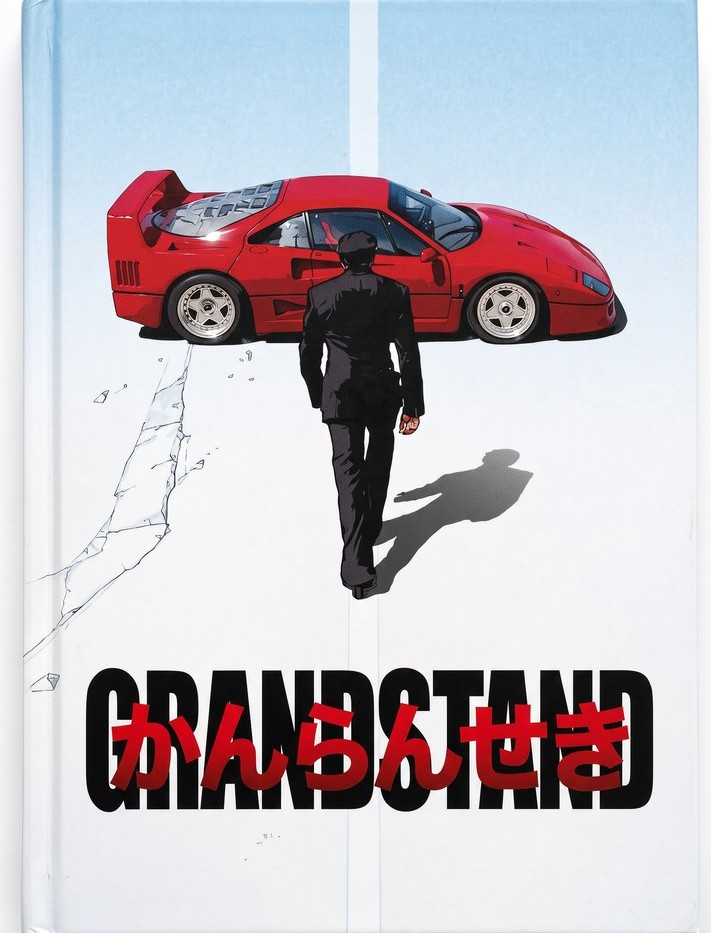
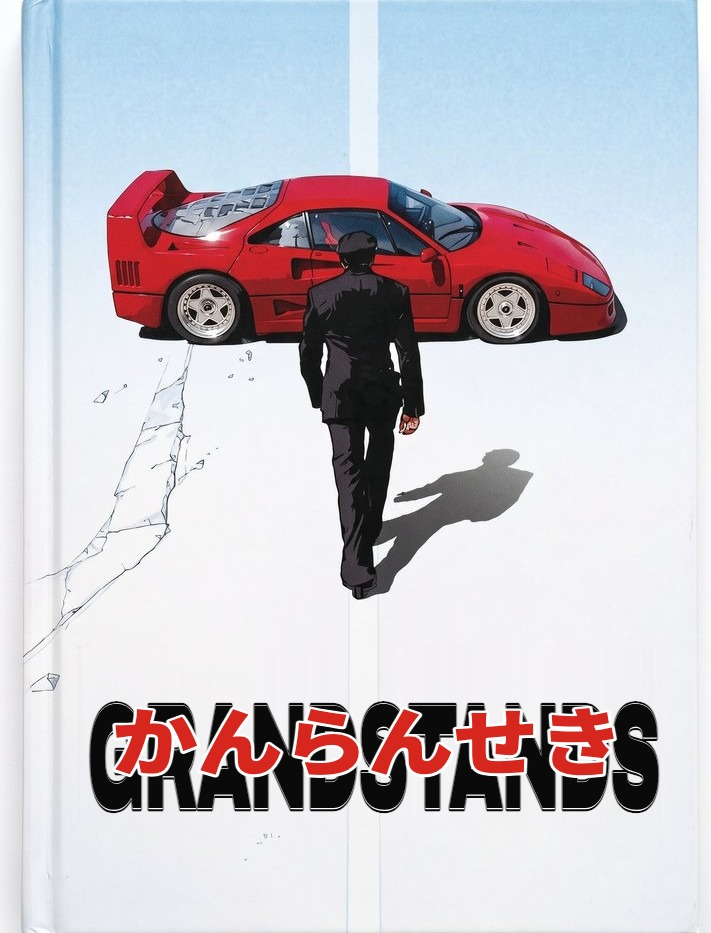
Rename Grandstand to Grandstands: shelf cover and spine art, covers, homepage and case study

Changed region(s): [[0.1238, 0.7149, 0.9283, 0.8703]]

diff --git a/dist/work/grandstand/index.html b/dist/work/grandstand/index.html
@@ -3,16 +3,16 @@
 <head>
   <meta charset="utf-8">
   <meta name="viewport" content="width=device-width, initial-scale=1">
-  <meta name="description" content="Case study: Grandstand, real Formula 1 races replayed as 3D dioramas in the browser. React Three Fiber, Blender and OpenStreetMap.">
+  <meta name="description" content="Case study: Grandstands, real Formula 1 races replayed as 3D dioramas in the browser. React Three Fiber, Blender and OpenStreetMap.">
   <meta name="color-scheme" content="light">
-  <meta property="og:title" content="Grandstand — Andrew Kim">
+  <meta property="og:title" content="Grandstands — Andrew Kim">
   <meta property="og:description" content="Real F1 races, replayed on a tiny 3D world you can walk around.">
   <meta property="og:type" content="article">
   <link rel="icon" href="/favicon.svg" type="image/svg+xml">
   <link rel="icon" href="/favicon.ico" sizes="16x16 32x32 48x48">
   <link rel="apple-touch-icon" href="/apple-touch-icon.png">
   <link rel="manifest" href="/manifest.json">
-  <title>Grandstand — Andrew Kim</title>
+  <title>Grandstands — Andrew Kim</title>
   <link rel="preconnect" href="https://fonts.googleapis.com">
   <link rel="preconnect" href="https://fonts.gstatic.com" crossorigin>
   <link rel="stylesheet" href="https://fonts.googleapis.com/css2?family=Archivo:wdth,wght@62..125,400..800&family=IBM+Plex+Mono:wght@400;500&family=Source+Serif+4:opsz,wght@8..60,400..600&display=swap">
@@ -291,7 +291,7 @@ figcaption{
 <section class="titleblock">
   <div class="shell">
     <div class="label">Case study &nbsp;/&nbsp; Personal project</div>
-    <h1>Grandstand</h1>
+    <h1>Grandstands</h1>
     <p class="lede">Real Formula 1 races replayed on a tiny 3D world you can walk around. Every lap, pit stop and position change from the actual race plays out on a hand-built diorama of the circuit, in the browser, with no download. <em>Built by a fan, for fans: designed, modelled and coded end to end.</em></p>
     <dl class="specs has-visit">
       <div><dt class="label">Role</dt><dd>Design, 3D &amp; engineering</dd></div>
@@ -300,7 +300,7 @@ figcaption{
       <div><dt class="label">Status</dt><dd><span class="live-tag"><i aria-hidden="true"></i>Live</span></dd></div><div><dt class="label">Visit</dt><dd><a class="compass" href="https://www.thegrandstands.net/" target="_blank" rel="noopener noreferrer" aria-label="Visit the live site (opens in a new tab)"><span class="go">Visit site</span><svg class="mark" viewBox="-124 -124 248 248" aria-hidden="true"><defs><clipPath id="tip-visit"><rect x="56" y="-40" width="80" height="80"/></clipPath></defs><g class="needle"><path d="M0 -70Q9 -9 116 0Q9 9 0 70Q-9 9 -70 0Q-9 -9 0 -70Z" fill="currentColor"/><path d="M0 -70Q9 -9 116 0Q9 9 0 70Q-9 9 -70 0Q-9 -9 0 -70Z" fill="#E9A23B" clip-path="url(#tip-visit)"/></g></svg></a></dd></div>
     </dl>
     <figure class="hero-shot">
-      <img src="landing.jpg" alt="Grandstand home page: the headline Take your seat in the grandstand over a 3D diorama of Monza, a red results ticker along the top and a results card." width="1600" height="1000">
+      <img src="landing.jpg" alt="Grandstands home page: the headline Take your seat in the grandstand over a 3D diorama of Monza, a red results ticker along the top and a results card." width="1600" height="1000">
       <figcaption><span>Fig. 01 — Home</span><span>thegrandstands.net</span></figcaption>
     </figure>
   </div>

diff --git a/public/work/grandstand/index.html b/public/work/grandstand/index.html
@@ -3,16 +3,16 @@
 <head>
   <meta charset="utf-8">
   <meta name="viewport" content="width=device-width, initial-scale=1">
-  <meta name="description" content="Case study: Grandstand, real Formula 1 races replayed as 3D dioramas in the browser. React Three Fiber, Blender and OpenStreetMap.">
+  <meta name="description" content="Case study: Grandstands, real Formula 1 races replayed as 3D dioramas in the browser. React Three Fiber, Blender and OpenStreetMap.">
   <meta name="color-scheme" content="light">
-  <meta property="og:title" content="Grandstand — Andrew Kim">
+  <meta property="og:title" content="Grandstands — Andrew Kim">
   <meta property="og:description" content="Real F1 races, replayed on a tiny 3D world you can walk around.">
   <meta property="og:type" content="article">
   <link rel="icon" href="/favicon.svg" type="image/svg+xml">
   <link rel="icon" href="/favicon.ico" sizes="16x16 32x32 48x48">
   <link rel="apple-touch-icon" href="/apple-touch-icon.png">
   <link rel="manifest" href="/manifest.json">
-  <title>Grandstand — Andrew Kim</title>
+  <title>Grandstands — Andrew Kim</title>
   <link rel="preconnect" href="https://fonts.googleapis.com">
   <link rel="preconnect" href="https://fonts.gstatic.com" crossorigin>
   <link rel="stylesheet" href="https://fonts.googleapis.com/css2?family=Archivo:wdth,wght@62..125,400..800&family=IBM+Plex+Mono:wght@400;500&family=Source+Serif+4:opsz,wght@8..60,400..600&display=swap">
@@ -291,7 +291,7 @@ figcaption{
 <section class="titleblock">
   <div class="shell">
     <div class="label">Case study &nbsp;/&nbsp; Personal project</div>
-    <h1>Grandstand</h1>
+    <h1>Grandstands</h1>
     <p class="lede">Real Formula 1 races replayed on a tiny 3D world you can walk around. Every lap, pit stop and position change from the actual race plays out on a hand-built diorama of the circuit, in the browser, with no download. <em>Built by a fan, for fans: designed, modelled and coded end to end.</em></p>
     <dl class="specs has-visit">
       <div><dt class="label">Role</dt><dd>Design, 3D &amp; engineering</dd></div>
@@ -300,7 +300,7 @@ figcaption{
       <div><dt class="label">Status</dt><dd><span class="live-tag"><i aria-hidden="true"></i>Live</span></dd></div><div><dt class="label">Visit</dt><dd><a class="compass" href="https://www.thegrandstands.net/" target="_blank" rel="noopener noreferrer" aria-label="Visit the live site (opens in a new tab)"><span class="go">Visit site</span><svg class="mark" viewBox="-124 -124 248 248" aria-hidden="true"><defs><clipPath id="tip-visit"><rect x="56" y="-40" width="80" height="80"/></clipPath></defs><g class="needle"><path d="M0 -70Q9 -9 116 0Q9 9 0 70Q-9 9 -70 0Q-9 -9 0 -70Z" fill="currentColor"/><path d="M0 -70Q9 -9 116 0Q9 9 0 70Q-9 9 -70 0Q-9 -9 0 -70Z" fill="#E9A23B" clip-path="url(#tip-visit)"/></g></svg></a></dd></div>
     </dl>
     <figure class="hero-shot">
-      <img src="landing.jpg" alt="Grandstand home page: the headline Take your seat in the grandstand over a 3D diorama of Monza, a red results ticker along the top and a results card." width="1600" height="1000">
+      <img src="landing.jpg" alt="Grandstands home page: the headline Take your seat in the grandstand over a 3D diorama of Monza, a red results ticker along the top and a results card." width="1600" height="1000">
       <figcaption><span>Fig. 01 — Home</span><span>thegrandstands.net</span></figcaption>
     </figure>
   </div>

diff --git a/dist/covers.js b/dist/covers.js
@@ -114,11 +114,11 @@
         return '<div class="cvx cvx-f451">' + carInFlames() +
           '<div class="fx-cap">Wonderful races<br>by the author of<br>allenscabinets.com</div>' +
           '<div class="fx-author"><span class="first">Andrew</span><span class="last">Kim</span></div>' +
-          '<div class="fx-title"><span class="t">Grandstand</span> <span class="n">451</span></div>' +
+          '<div class="fx-title"><span class="t">Grandstands</span> <span class="n">451</span></div>' +
           '<div class="fx-pub">ADK Studio Books</div></div>';
       },
       spine: function () {
-        return '<span class="fx-spine-n">451</span><span class="t">Grandstand</span><span class="fx-spine-pub">ADK</span>';
+        return '<span class="fx-spine-n">451</span><span class="t">Grandstands</span><span class="fx-spine-pub">ADK</span>';
       }
     },
     white: {
@@ -147,10 +147,10 @@
     },
     supreme: {
       cover: function () {
-        return '<div class="cvx cvx-supreme"><div class="sp-box"><span>Grandstand</span></div><div class="sp-emboss">ADK STUDIO</div></div>';
+        return '<div class="cvx cvx-supreme"><div class="sp-box"><span>Grandstands</span></div><div class="sp-emboss">ADK STUDIO</div></div>';
       },
       spine: function () {
-        return '<span class="sp-spine-box"><span class="t">Grandstand</span></span><span class="sp-spine-pub">ADK</span>';
+        return '<span class="sp-spine-box"><span class="t">Grandstands</span></span><span class="sp-spine-pub">ADK</span>';
       }
     },
     apc: {

diff --git a/public/covers.js b/public/covers.js
@@ -114,11 +114,11 @@
         return '<div class="cvx cvx-f451">' + carInFlames() +
           '<div class="fx-cap">Wonderful races<br>by the author of<br>allenscabinets.com</div>' +
           '<div class="fx-author"><span class="first">Andrew</span><span class="last">Kim</span></div>' +
-          '<div class="fx-title"><span class="t">Grandstand</span> <span class="n">451</span></div>' +
+          '<div class="fx-title"><span class="t">Grandstands</span> <span class="n">451</span></div>' +
           '<div class="fx-pub">ADK Studio Books</div></div>';
       },
       spine: function () {
-        return '<span class="fx-spine-n">451</span><span class="t">Grandstand</span><span class="fx-spine-pub">ADK</span>';
+        return '<span class="fx-spine-n">451</span><span class="t">Grandstands</span><span class="fx-spine-pub">ADK</span>';
       }
     },
     white: {
@@ -147,10 +147,10 @@
     },
     supreme: {
       cover: function () {
-        return '<div class="cvx cvx-supreme"><div class="sp-box"><span>Grandstand</span></div><div class="sp-emboss">ADK STUDIO</div></div>';
+        return '<div class="cvx cvx-supreme"><div class="sp-box"><span>Grandstands</span></div><div class="sp-emboss">ADK STUDIO</div></div>';
       },
       spine: function () {
-        return '<span class="sp-spine-box"><span class="t">Grandstand</span></span><span class="sp-spine-pub">ADK</span>';
+        return '<span class="sp-spine-box"><span class="t">Grandstands</span></span><span class="sp-spine-pub">ADK</span>';
       }
     },
     apc: {

diff --git a/dist/library.js b/dist/library.js
@@ -25,7 +25,7 @@
       size: { h: 350, d: 41 }, spine: { image: '/books/allensadmin-spine.jpg', bg: '#121212', fg: '#FFFFFF', ac: '#E9A23B', pat: 'stripes' }, cover: { image: '/books/allensadmin-cover.jpg', bg: '#121212', fg: '#E9A23B' }
     },
     {
-      id: 'grandstand', design: 'supreme', title: 'Grandstand', spineTitle: 'Grandstand', coverTitle: 'Grand<br>stand',
+      id: 'grandstand', design: 'supreme', title: 'Grandstands', spineTitle: 'Grandstands', coverTitle: 'Grand<br>stands',
       kicker: 'Personal · Live', tag: '3D web',
       desc: 'Real Formula 1 races replayed on a tiny 3D world you can walk around: every lap, pit stop and overtake from the actual race, on hand-built dioramas of each circuit, in the browser.',
       meta: [['Role', 'Design, 3D & engineering'], ['Stack', 'Three.js, React Three Fiber, Blender, OpenStreetMap'], ['Status', 'Live']],

diff --git a/public/library.js b/public/library.js
@@ -25,7 +25,7 @@
       size: { h: 350, d: 41 }, spine: { image: '/books/allensadmin-spine.jpg', bg: '#121212', fg: '#FFFFFF', ac: '#E9A23B', pat: 'stripes' }, cover: { image: '/books/allensadmin-cover.jpg', bg: '#121212', fg: '#E9A23B' }
     },
     {
-      id: 'grandstand', design: 'supreme', title: 'Grandstand', spineTitle: 'Grandstand', coverTitle: 'Grand<br>stand',
+      id: 'grandstand', design: 'supreme', title: 'Grandstands', spineTitle: 'Grandstands', coverTitle: 'Grand<br>stands',
       kicker: 'Personal · Live', tag: '3D web',
       desc: 'Real Formula 1 races replayed on a tiny 3D world you can walk around: every lap, pit stop and overtake from the actual race, on hand-built dioramas of each circuit, in the browser.',
       meta: [['Role', 'Design, 3D & engineering'], ['Stack', 'Three.js, React Three Fiber, Blender, OpenStreetMap'], ['Status', 'Live']],

diff --git a/dist/index.html b/dist/index.html
@@ -112,7 +112,7 @@
   var SCREENS = [
     { book:'allenscabinets', kind:'browser', src:'/work/allenskb/home.jpg', cap:'allenscabinets.com' },
     { book:'beoncarrier', kind:'mockup', src:'/work/beon-carrier/mobile-bids.jpg', cap:'Beon Carrier · app' },
-    { book:'grandstand', kind:'browser', src:'/work/grandstand/scene-monza.jpg', cap:'Grandstand' },
+    { book:'grandstand', kind:'browser', src:'/work/grandstand/scene-monza.jpg', cap:'Grandstands' },
     { book:'allensadmin', kind:'browser', src:'/work/allens-admin/crm-pipeline.jpg', cap:'Custom CRM' },
     { book:'allenscabinets', kind:'phone', src:'/work/allenskb/mobile.jpg', cap:'allenscabinets.com · mobile' },
     { book:'beoncarrier', kind:'browser', src:'/work/beon-carrier/web-bids.jpg', cap:'Beon Carrier' },

diff --git a/index.html b/index.html
@@ -113,7 +113,7 @@
   var SCREENS = [
     { book:'allenscabinets', kind:'browser', src:'/work/allenskb/home.jpg', cap:'allenscabinets.com' },
     { book:'beoncarrier', kind:'mockup', src:'/work/beon-carrier/mobile-bids.jpg', cap:'Beon Carrier · app' },
-    { book:'grandstand', kind:'browser', src:'/work/grandstand/scene-monza.jpg', cap:'Grandstand' },
+    { book:'grandstand', kind:'browser', src:'/work/grandstand/scene-monza.jpg', cap:'Grandstands' },
     { book:'allensadmin', kind:'browser', src:'/work/allens-admin/crm-pipeline.jpg', cap:'Custom CRM' },
     { book:'allenscabinets', kind:'phone', src:'/work/allenskb/mobile.jpg', cap:'allenscabinets.com · mobile' },
     { book:'beoncarrier', kind:'browser', src:'/work/beon-carrier/web-bids.jpg', cap:'Beon Carrier' },
